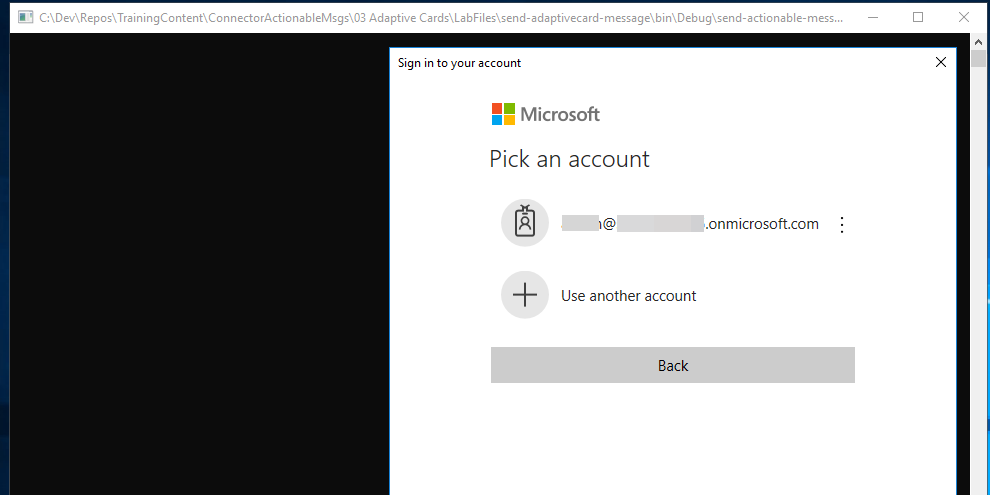
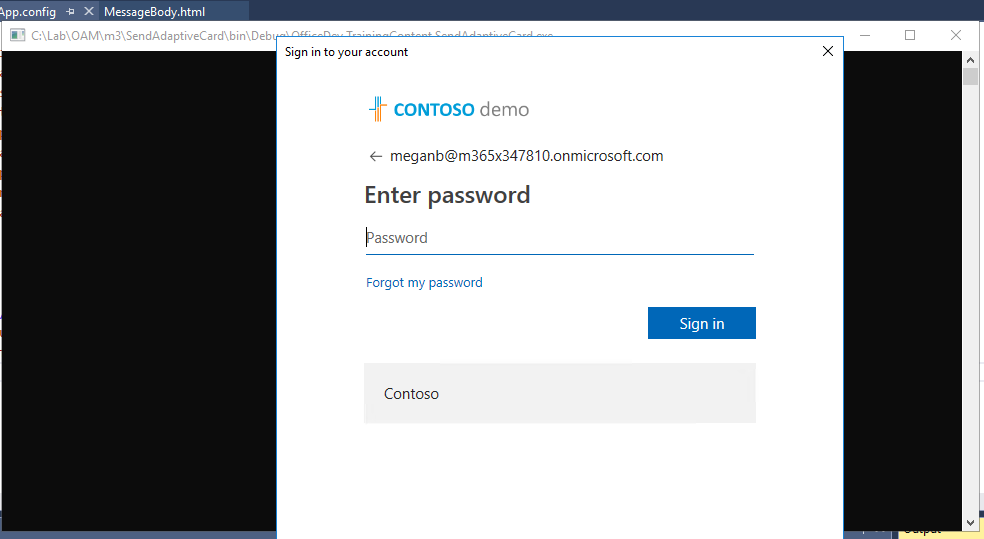
Lab updates

diff --git a/ConnectorActionableMsgs/03 Adaptive Cards/LabFiles/SendEmailCard/Program.cs b/ConnectorActionableMsgs/03 Adaptive Cards/LabFiles/SendEmailCard/Program.cs
@@ -17,7 +17,7 @@ namespace OfficeDev.TrainingContent.SendCardEmail
   class Program
   {
     static IPublicClientApplication authClient = null;
-    static readonly string[] scopes =
+    static string[] scopes =
     {
       "User.Read", // Scope needed to read /Me from Graph (to get email address)
       "Mail.Send"  // Scope needed to send mail as the user
@@ -62,22 +62,16 @@ namespace OfficeDev.TrainingContent.SendCardEmail
 
     static async Task SendMessage(string[] args)
     {
-			var clientId = ConfigurationManager.AppSettings.Get("applicationId");
-			var tenantId = ConfigurationManager.AppSettings.Get("tenantId");
-
-			// Setup MSAL client
-
-			authClient = PublicClientApplicationBuilder.Create(clientId)
-				.WithAuthority(AzureCloudInstance.AzurePublic, tenantId)
-				.WithRedirectUri("https://login.microsoftonline.com/common/oauth2/nativeclient")
-				.Build();
+      // Setup MSAL client
+      authClient = PublicClientApplicationBuilder
+                    .Create(ConfigurationManager.AppSettings.Get("applicationId"))
+                    .WithDefaultRedirectUri()
+                    .Build();
 
       try
       {
         // Get the access token
-        var result = await authClient
-														.AcquireTokenInteractive(scopes)
-														.ExecuteAsync();
+        var result = await authClient.AcquireTokenInteractive(scopes).ExecuteAsync();
 
         // Initialize Graph client with delegate auth provider
         // that just returns the token we already retrieved

diff --git a/ConnectorActionableMsgs/03 Adaptive Cards/Lab.md b/ConnectorActionableMsgs/03 Adaptive Cards/Lab.md
@@ -104,15 +104,31 @@ Using Microsoft Graph to send emails requires an application registration. (The 
 
 1. Enter a name for the application. A suggested name is `Expense Card mailer`. Select **Register**.
 
-1. In the **Overview** blade, copy the **Application (client) ID**.
+### Register application in the Azure Active Directory
 
-1. In the **Overview** blade, , copy the **Directory (tenant) ID**.
+1. Open the [Azure Active Directory admin center](https://aad.portal.azure.com).
+
+1. Log in with the work or school account that is an administrator in the tenant.
+
+1. Select **Azure Active Directory** in the left-most blade.
+
+1. Select **App registrations** in the left-hand menu.
+
+1. Select **New registration**.
+
+1. Enter a name for the application. 
+
+1. In the **Supported Account Types** section, select **Accounts in any organizational directory (Any Azure AD directory - Multitenant)**.
+
+1. Select **Register**.
+
+1. In the **Overview** blade, copy the **Application (client) ID**  for reference later.
 
 1. Select **Authentication** in the left-hand menu.
 
-1. In the **Redirect URIs** > **Suggested Redirect URIs for public clients (mobile, desktop)** section, select the native client URI. (`https://login.microsoftonline.com/common/oauth2/nativeclient`)
+1. In the **Suggested Redirect URIs for public clients (mobile, desktop)** section, select the box next to the value **https://login.microsoftonline.com/common/oauth2/nativeclient**.
 
-    ![Screenshot of application registration showing the Redirect URIs](Images/Exercise2-01.png)
+1. In the **Default client type** section, select **Yes** for **Treat applicatin as public client**.
 
 1. Select **Save** from the toolbar at the top of the Authentication blade.
 
@@ -268,11 +284,7 @@ Under certain conditions, the adaptive card must be sent as a signed card. These
     </html>
     ```
 
-1. Select the **signed_adaptive_template.html** file in **Solution Explorer** and select **F4**.
-
-1. In the **Properties pane**, set the **Build Action** of the file to **Content**. Set the **Copy to Output Directory** property to **Copy Always**.
-
-1. In the `LoadCardMessageBody` method of the the `Program` class. Replace the method with the following:
+1. In the `SendMessage` method of the the `Program` class, location the statement that creates the email message. Replace the call to the `LoadAdaptiveCardMessageBody` method with a call to the `LoadSignedAdaptiveCardMessageBody` method. The updated statement will look as follows:
 
     ```csharp
     static string LoadCardMessageBody(string cardType, string filepath)
@@ -301,7 +313,9 @@ Under certain conditions, the adaptive card must be sent as a signed card. These
 
 This exercise will enhance the support ticket card from Exercise 1 with input and action elements allowing comments on the support ticket directly from Microsoft Outlook.
 
-1. Open the file **supportTicketCard.json**.
+1. In Outlook, delete messages from earlier exercises.
+
+1. In Visual Studio, open the file **Card.json**.
 
 1. You will extend the card with another element in the body as a header for comments. Add a comma to the end of line 101 and press return.
 
@@ -364,10 +378,7 @@ This exercise will enhance the support ticket card from Exercise 1 with input an
 
     >Note: The `body` element of the `Action.Http` element contains a token indicated with double braces: `'{{comment.value}}'`. Inside the braces is the name of the input control. When the action is performed, the value of the input control is inserted in this token.
 
-1. Send the updated card using the console application:
-    ```shell
-    SendEmailCard.exe adaptive supportTicketCard.json
-    ```
+1. Compile and run the **SendAdaptiveCard** solution. The program will again prompt for an account and send the message.
 
 ### View and interact with Adaptive Cards
 
